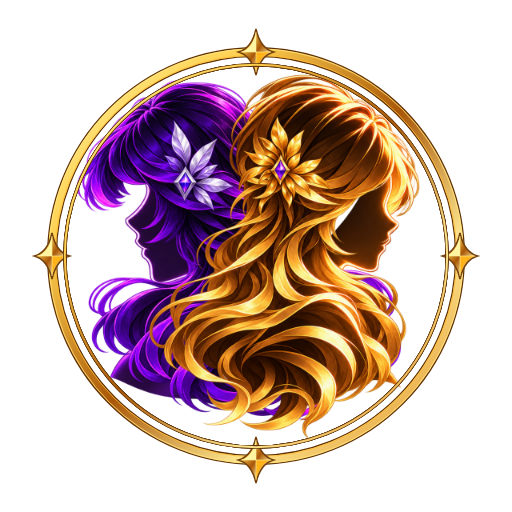
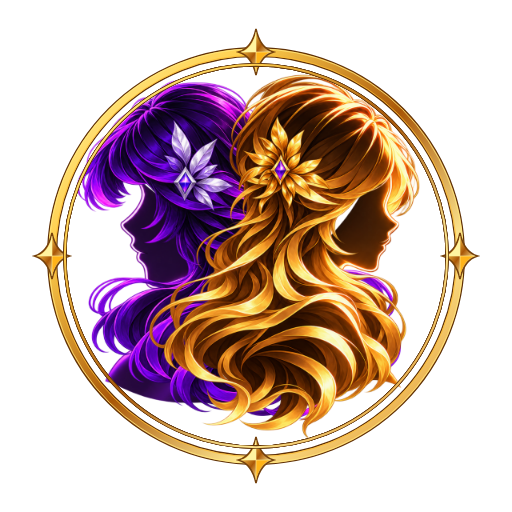
[#221] fix(emblem): move violet face left and down

Changed region(s): [[0.2188, 0.3438, 0.375, 0.5625], [0.1875, 0.6875, 0.4062, 0.8125]]

diff --git a/apps/stellar-desktop/public/emblem/provenance.md b/apps/stellar-desktop/public/emblem/provenance.md
@@ -2,14 +2,14 @@
 
 Runtime files are byte-identical copies from [the production-v1 source pack](https://github.com/DanielssonThomas/Stellar/blob/develop/libs/stellar-emblem/production-v1/README.md). Issue #176 supplied the hybrid raster artwork and editable SVG geometry; #204 composes its four stars into the outer frame, adds three matching inner circles and assigns eleven uniformly spaced logical planes. #211 divides each existing body into three registered clips, yielding fifteen logical planes over the same eleven image files. The manifest retains production-candidate status. All files share a 1280 square origin and all assembled transforms remain zero. The #221 correction re-registers the two body exports inside their hair apertures; all six generated source cutouts remain unchanged, as do the other four exported raster images.
 
-The exported runtime payload is 2,744,102 bytes for the manifest and eleven unique registered image files. Text newline conventions can change that count on another platform. Original references, generated masters, registration, history and previews remain in the source library. Imagegen supplied the original raster artwork; #221 only changes deterministic registration. Native performance and physical microphones require separate verification.
+The exported runtime payload is 2,743,860 bytes for the manifest and eleven unique registered image files. Text newline conventions can change that count on another platform. Original references, generated masters, registration, history and previews remain in the source library. Imagegen supplied the original raster artwork; #221 only changes deterministic registration. Native performance and physical microphones require separate verification.
 
 Copy integrity was checked byte-for-byte against source files on this checkout. SHA-256 hashes below normalize JSON/SVG text to LF and preserve exact PNG bytes.
 
 | Runtime file               | SHA-256                                                          |
 | -------------------------- | ---------------------------------------------------------------- |
 | manifest.json              | 5d19f26cbeb4bd01eaa4cec1963eaaecb281087179b36b0c537128e3ef2dd992 |
-| layers/violet-body.png     | 318828597ccfe042fb74919efdd5d7b519f1ba07e8d986c30bec4c0a1af00bf9 |
+| layers/violet-body.png     | f6dde9bde7074a6a1aeeafca31f0148bb59de7113ab427636939c71495aded54 |
 | layers/violet-hair.png     | 5ca76606302c0758dd55b520c5ce0cd751bda9e9b8c827ff2e78920c19938da3 |
 | layers/violet-ornament.png | 693fdcba33e399e0585d05c27ca3fac38b93bd66d4d61c0cd08ecdd0647d09ef |
 | layers/gold-body.png       | e4f0044e8b4a320b312c0071596cf0d91912136915cb322fec9dd96446aa3e9c |

diff --git a/libs/stellar-emblem/production-v1/README.md b/libs/stellar-emblem/production-v1/README.md
@@ -28,7 +28,7 @@ The original #176 independent image-capable review accepted the visual direction
 
 ## Registered face fragmentation (#211)
 
-The #221 candidate moves the gold ornament in front of its own hair in the exploded depth order. Previously its depth stayed behind the hair until every plane reached zero, at which point paint order abruptly made it visible. Both ornaments now retain the same front-to-back relationship during assembly. It also raises the violet body by 35 source units and moves it right by 9, and raises the gold body by 30 units and moves it right by 7. This re-registers the untouched source cutouts inside their hair apertures and aligns the gold nose with the existing hair contour. The two body exports and composed previews change; the six original generated sources and all other exported images retain their original pixels. Every assembled transform remains zero. Native evidence and comparison with the supplied canonical reference determine visual acceptance, not the zero-pose invariant alone.
+The #221 candidate moves the gold ornament in front of its own hair in the exploded depth order. Previously its depth stayed behind the hair until every plane reached zero, at which point paint order abruptly made it visible. Both ornaments now retain the same front-to-back relationship during assembly. It also raises the violet body by 25 source units and moves it left by 3, and raises the gold body by 30 units and moves it right by 7. This re-registers the untouched source cutouts inside their hair apertures and aligns the gold nose with the existing hair contour. The two body exports and composed previews change; the six original generated sources and all other exported images retain their original pixels. Every assembled transform remains zero. Native evidence and comparison with the supplied canonical reference determine visual acceptance, not the zero-pose invariant alone.
 
 The emblem molecule also accepts an explicit `solActive` presentation input. Once assembly actually settles, it reveals a single red circle concentric with the existing outer gold circle and two narrow eye glints; the effect scales with the emblem, fades on removal and respects reduced motion. The app binds this input to the restored persistent voice composition model, including explicit Sol drafting and confirmed reset to Terra. This input communicates selected intent and does not itself verify the actual inference provider or model.
 
